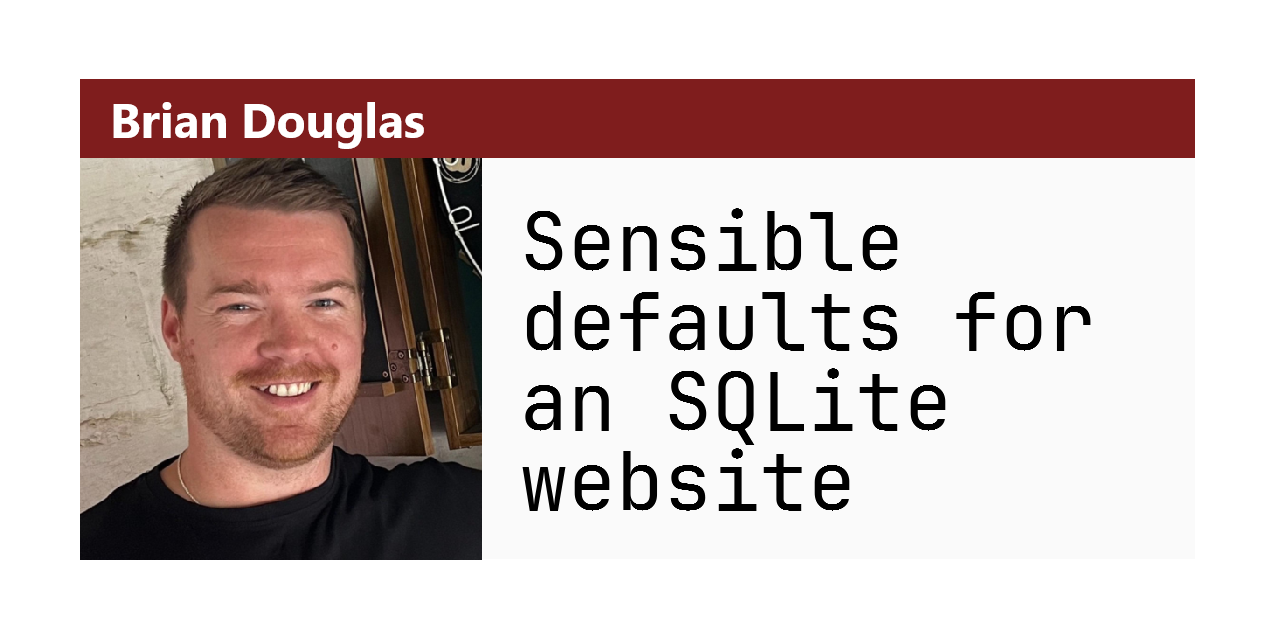
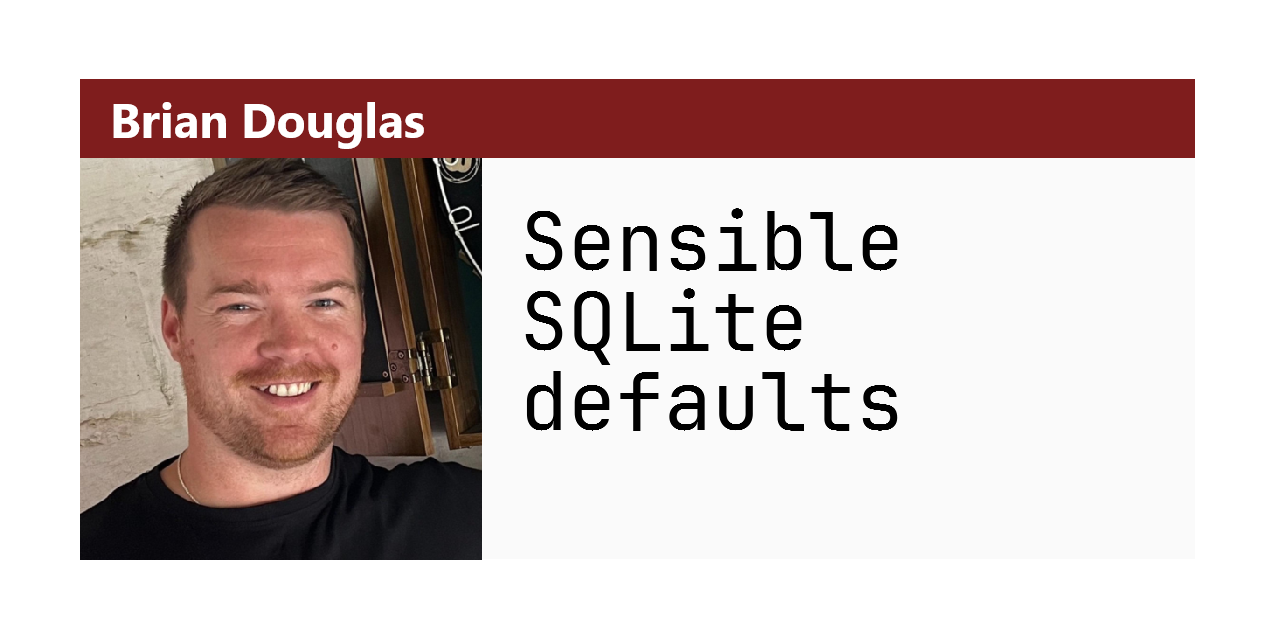
feat: update tiitle

Changed region(s): [[0.4062, 0.4375, 0.75, 0.8125], [0.75, 0.4375, 0.875, 0.5625]]

diff --git a/docs/sqlite-defaults/index.html b/docs/sqlite-defaults/index.html
@@ -6,10 +6,10 @@
         <meta http-equiv="X-UA-Compatible" content="IE=edge" />
 
         <!-- Title -->
-        <title>Brian Douglas' Tech Blog - Sensible defaults for an SQLite website</title>
+        <title>Brian Douglas' Tech Blog - Sensible SQLite defaults</title>
 
         <!-- Meta Description -->
-        <meta name="description" content="Sensible defaults for an SQLite website" />
+        <meta name="description" content="Sensible SQLite defaults" />
 
         <!-- Keywords -->
         <meta
@@ -24,9 +24,9 @@
         <meta property="og:type" content="website" />
         <meta
             property="og:title"
-            content="Brian Douglas' Tech Blog - Sensible defaults for an SQLite website"
+            content="Brian Douglas' Tech Blog - Sensible SQLite defaults"
         />
-        <meta property="og:description" content="Sensible defaults for an SQLite website" />
+        <meta property="og:description" content="Sensible SQLite defaults" />
         <meta property="og:url" content="https://www.briandouglas.ie" />
         <meta
             property="og:image"
@@ -38,9 +38,9 @@
         <meta name="twitter:card" content="summary_large_image" />
         <meta
             name="twitter:title"
-            content="Brian Douglas' Tech Blog - Sensible defaults for an SQLite website"
+            content="Brian Douglas' Tech Blog - Sensible SQLite defaults"
         />
-        <meta name="twitter:description" content="Sensible defaults for an SQLite website" />
+        <meta name="twitter:description" content="Sensible SQLite defaults" />
         <meta
             name="twitter:image"
             content="https://www.briandouglas.ie/images/og-images/sqlite-defaults.png"
@@ -93,7 +93,7 @@
             <nav aria-label="Breadcrumb" class="content-md mx-auto px-sm">
                 <ol class="list-reset m-0">
                     <li><a href="/">Home</a></li> /
-                    <li aria-current="page">Sensible defaults for an SQLite website</li>
+                    <li aria-current="page">Sensible SQLite defaults</li>
                 </ol>
             </nav>
         </div>
@@ -101,7 +101,7 @@
             <div class="content-md mx-auto px-sm my-md">
                 <article class="post-full">
                     <header>
-                        <h2>Sensible defaults for an SQLite website</h2>
+                        <h2>Sensible SQLite defaults</h2>
                         <p class="post-meta">
                             <time datetime="17/10/2024"
                             >October 17th, 2024</time>

diff --git a/docs/index.html b/docs/index.html
@@ -142,7 +142,7 @@
     <li>
         <article class="post-item">
     <header>
-        <h2><a href="/sqlite-defaults">Sensible defaults for an SQLite website</a></h2>
+        <h2><a href="/sqlite-defaults">Sensible SQLite defaults</a></h2>
         <time datetime="17/10/2024"
         >October 17th, 2024</time>
     </header>

diff --git a/posts/sqlite-defaults.md b/posts/sqlite-defaults.md
@@ -1,5 +1,5 @@
 ---
-title: Sensible defaults for an SQLite website
+title: Sensible SQLite defaults
 tags: [sql]
 date: 17/10/2024
 ---
